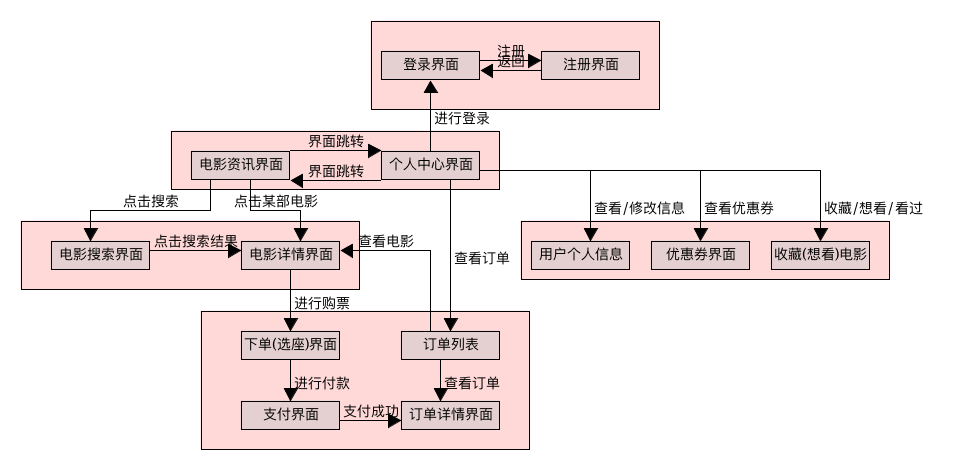
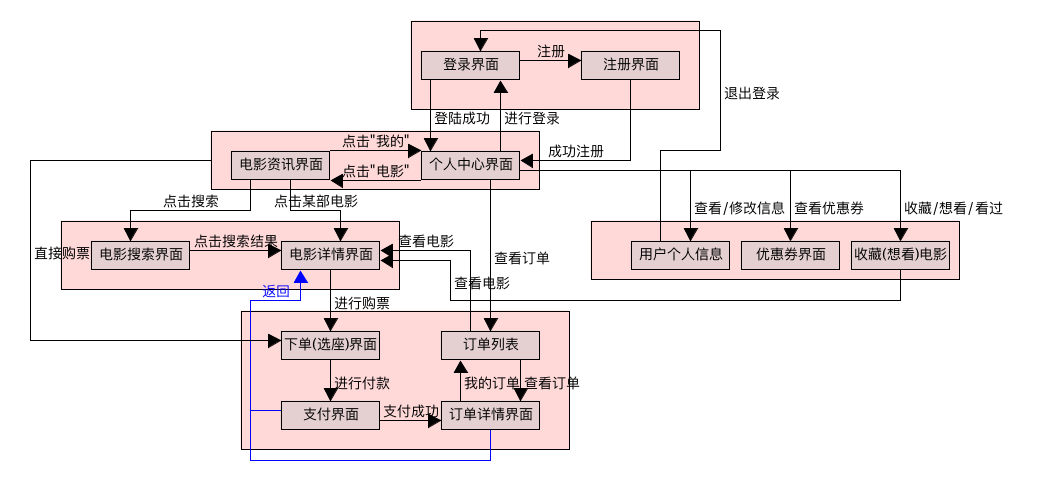
调整字体；完善界面跳转关系图

Changed region(s): [[0.0, 0.0298, 0.9688, 0.983]]

diff --git a/src/components/main/Movies.vue b/src/components/main/Movies.vue
@@ -104,10 +104,10 @@ export default {
         height: 1rem
         .name
           margin: 0 0 .03rem 0
-          font-size: .2rem
+          font-size: .16rem
           font-weight: 400
         .playing-type
-          font-size: .18rem
+          font-size: .16rem
           float: right
           color: #ff6500
         .md-chip:first-child
